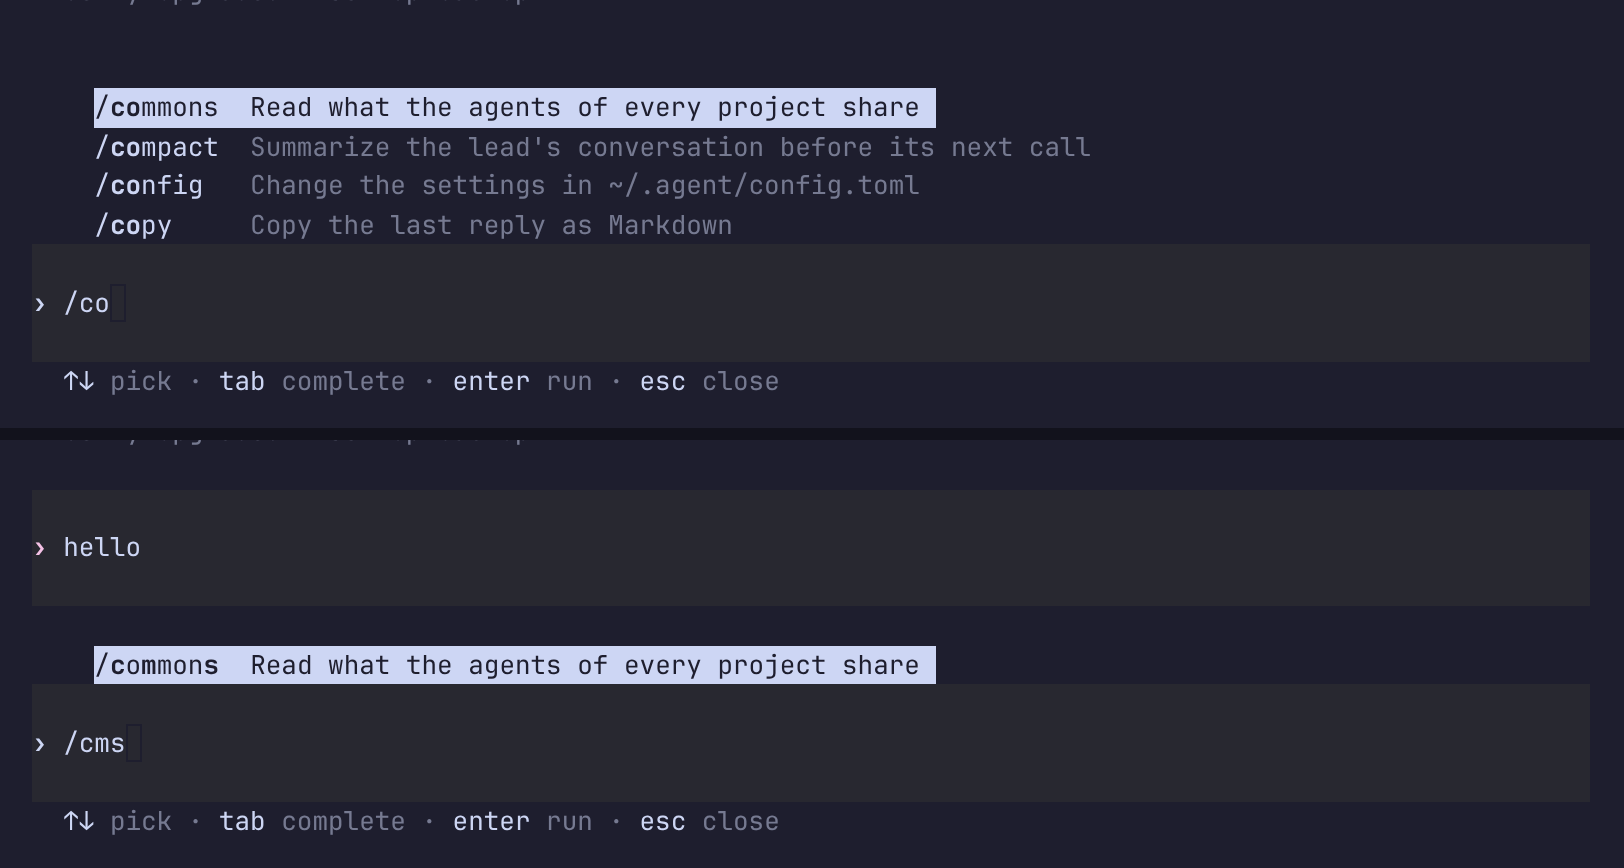
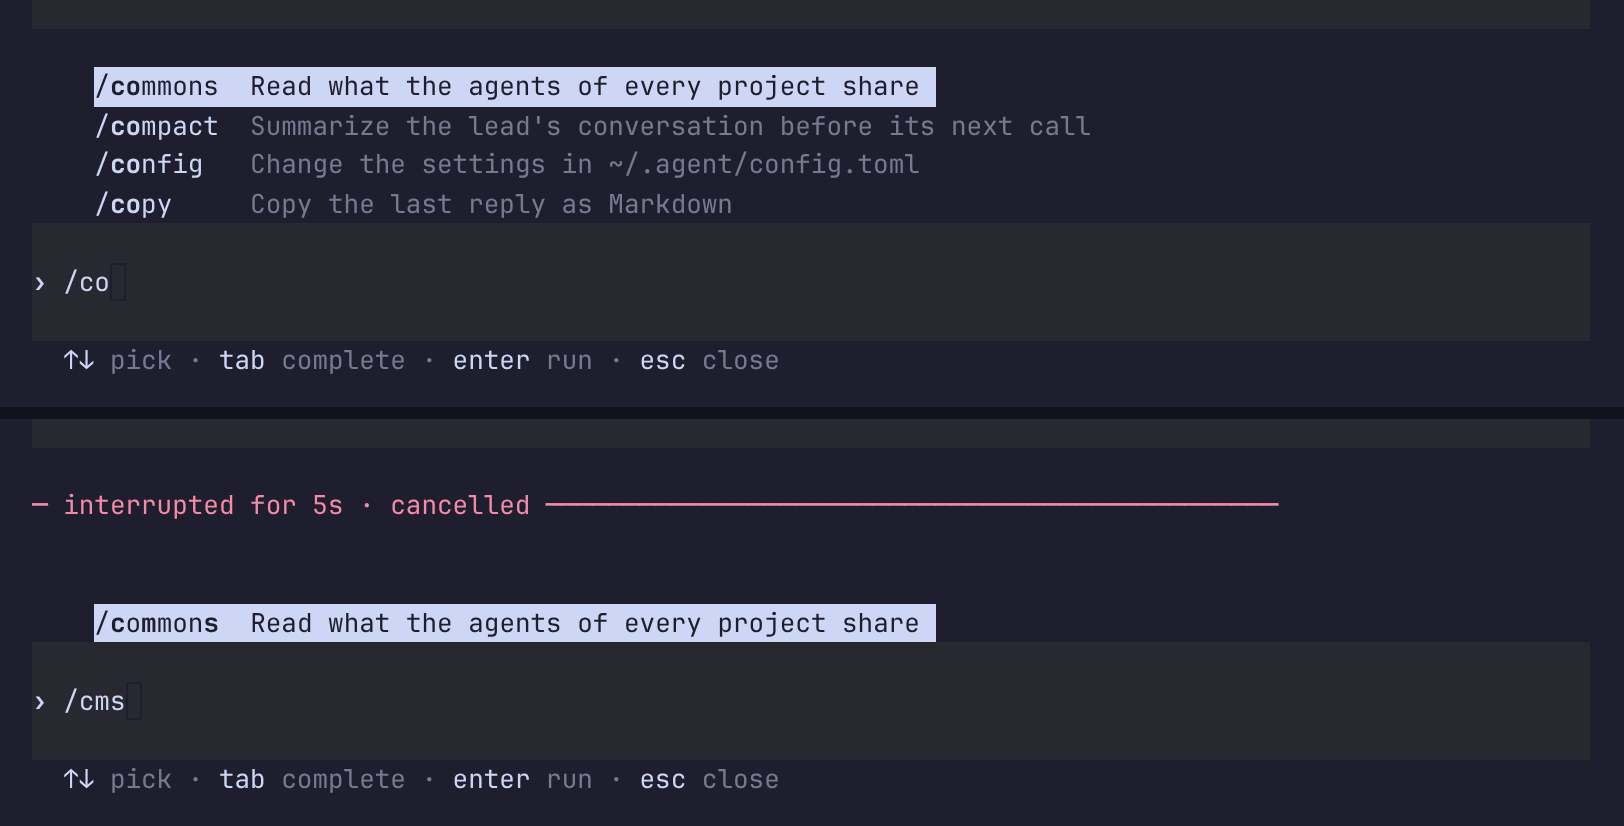
Sonny: /compact asks first instead of needing its whole name
George: a confirm keeps finding commands one way, and adds one step.
Enter on /compact, typed whole or picked from part of its name, asks
'Compact NAME's conversation? It can't be undone.' (question bold, why
muted); Enter compacts, any other key keeps the conversation.

Claude-Session: https://claude.ai/code/session_013jkdGH7yPA3jq7mMu9ABMs

diff --git a/sonny/src/main.rs b/sonny/src/main.rs
@@ -1817,24 +1817,15 @@ const COMMANDS: [(&str, &str); 27] = [
     ("/quit", "Quit; the agents keep working"),
 ];
 
-/// The slash menu's keys, while it is open: Enter runs the pick, or on
-/// part of a [`WHOLE`] command's name fills it in for a second Enter.
+/// The slash menu's keys, while it is open: Tab completes the pick's name
+/// until it is whole.
 fn menu_keys(menu: &[(&str, &str, Vec<usize>)], pick: usize, typed: &str) -> Option<&'static str> {
     let picked = menu.get(pick.min(menu.len().checked_sub(1)?))?.0;
-    Some(match (typed == picked, WHOLE.contains(&picked)) {
-        (true, _) => "  ↑↓ pick · enter run · esc close",
-        (false, true) => "  ↑↓ pick · enter complete, again run · esc close",
-        (false, false) => "  ↑↓ pick · tab complete · enter run · esc close",
+    Some(match typed == picked {
+        true => "  ↑↓ pick · enter run · esc close",
+        false => "  ↑↓ pick · tab complete · enter run · esc close",
     })
 }
-
-/// The commands that act at once and cannot be taken back, as an MCP
-/// tool's `destructiveHint` marks one: `/compact` summarizes the
-/// conversation away. (`/retry` opens a list to approve from, and `/pause`
-/// asks why first.) Enter runs one only once its whole name is typed; on
-/// part of it, Enter fills the name in, as Tab does, and a second Enter
-/// runs it.
-const WHOLE: [&str; 1] = ["/compact"];
 
 /// What an agent's last few items say, for `/status`.
 /// What an idle agent's history says, read once per turn it ended: the
@@ -2009,6 +2000,8 @@ struct App {
     reactions: reactions::Reactions,
     /// The slash commands the person ran, for the menu to rank.
     picks: fuzzy::Picks,
+    /// `/compact` asks before it compacts: Enter says yes.
+    confirming: bool,
     /// The bot's latest replies, by node, with their first lines: what
     /// `/react` offers, newest last.
     replies: Vec<(i64, String)>,
@@ -3000,6 +2993,7 @@ impl App {
             pictures: Vec::new(),
             reactions: reactions::Reactions::default(),
             picks: fuzzy::Picks::default(),
+            confirming: false,
             replies: Vec::new(),
             quoting: false,
             reacting: None,
@@ -7319,6 +7313,21 @@ impl App {
         }
     }
 
+    /// `/compact`, once the person said yes.
+    async fn compact(&mut self) {
+        self.notice = Some(
+            match self
+                .client
+                .request("compact", json!({"bot": self.bot}))
+                .await
+            {
+                Ok(_) if self.running.is_some() => "compacts at its next step".into(),
+                Ok(_) => "compacts before its next reply".into(),
+                Err(error) => format!("compact: {error}"),
+            },
+        );
+    }
+
     /// The slash commands the input could be, while it is one word that
     /// starts with `/`, best first, with where the letters typed are in
     /// each: the person's own picks rank first among equal matches.
@@ -8466,6 +8475,19 @@ impl App {
             }
             return;
         }
+        if self.confirming {
+            if let Event::Key(key) = &event
+                && key.kind != KeyEventKind::Release
+            {
+                // Only Enter says yes; anything else keeps the conversation.
+                self.confirming = false;
+                match key.code {
+                    KeyCode::Enter => self.compact().await,
+                    _ => self.notice = Some("not compacted".into()),
+                }
+            }
+            return;
+        }
         if let Some((choice, mut pick)) = self.choosing {
             if let Event::Key(key) = event
                 && key.kind != KeyEventKind::Release
@@ -8589,12 +8611,9 @@ impl App {
                         .modifiers
                         .intersects(KeyModifiers::SHIFT | KeyModifiers::ALT) =>
                 {
-                    let whole = &*self.input == picked;
                     self.input.set(picked);
                     self.pick = 0;
-                    if whole || !WHOLE.contains(&picked) {
-                        self.submit().await;
-                    }
+                    self.submit().await;
                     return;
                 }
                 KeyCode::Esc => {
@@ -8959,19 +8978,11 @@ impl App {
             });
             return;
         }
+        // It can't be taken back, so it asks first, as an MCP tool's
+        // `destructiveHint` does: Enter compacts, Esc keeps the conversation.
         if prompt == "/compact" {
             self.input.clear();
-            self.notice = Some(
-                match self
-                    .client
-                    .request("compact", json!({"bot": self.bot}))
-                    .await
-                {
-                    Ok(_) if self.running.is_some() => "compacts at its next step".into(),
-                    Ok(_) => "compacts before its next reply".into(),
-                    Err(error) => format!("compact: {error}"),
-                },
-            );
+            self.confirming = true;
             return;
         }
         if prompt == "/react" || prompt == "/reply" {
@@ -9466,6 +9477,7 @@ impl App {
     /// and nothing open over it.
     fn suggested(&self) -> Option<&str> {
         let open = self.picker.is_some()
+            || self.confirming
             || self.choosing.is_some()
             || self.approving.is_some()
             || self.reacting.is_some()
@@ -10146,6 +10158,22 @@ impl App {
                 frame.render_widget(Paragraph::new(keys), footer);
                 return;
             }
+            if self.confirming {
+                let name = match &self.project {
+                    Some(project) => lead_title(project, &self.bot),
+                    None => self.bot.clone(),
+                };
+                // The question first, as a decision card's is; why it asks muted.
+                let line = Line::from(vec![
+                    Span::raw("› ").bold(),
+                    Span::raw(format!("Compact {name}'s conversation?")).bold(),
+                    Span::raw(" It can't be undone.").dim(),
+                ]);
+                frame.render_widget(Paragraph::new(line), composer);
+                let keys = Line::from(hint::spans("  enter compact · esc cancel"));
+                frame.render_widget(Paragraph::new(keys), footer);
+                return;
+            }
             if let Some((_, pick)) = self.choosing {
                 let items: Vec<list::Item> = (self.rows.iter())
                     .map(|mode| {
@@ -10340,7 +10368,8 @@ impl App {
         // A shell command is marked as one while it is typed.
         let shell = self.input.starts_with('!');
         let selected = self.input.selection();
-        let keep = match self.choosing.is_some()
+        let keep = match self.confirming
+            || self.choosing.is_some()
             || self.approving.is_some()
             || self.picker.is_some()
             || self.config.is_some()
@@ -14655,7 +14684,7 @@ mod tests {
     }
 
     #[tokio::test]
-    async fn enter_on_part_of_compact_fills_it_in_and_what_was_run_ranks_first() {
+    async fn compact_asks_first_and_what_was_run_ranks_first() {
         let asked = Arc::new(std::sync::Mutex::new(Vec::<String>::new()));
         let seen = asked.clone();
         let mut app = app(daemon_answering(move |request| {
@@ -14678,20 +14707,30 @@ mod tests {
         let keys = |app: &App| menu_keys(&app.menu(), app.pick, &app.input);
         assert_eq!(
             keys(&app),
-            Some("  ↑↓ pick · enter complete, again run · esc close")
+            Some("  ↑↓ pick · tab complete · enter run · esc close")
         );
-        // Part of /compact's name: Enter fills it in, and runs nothing.
+        // Enter on part of its name picks /compact as any other command,
+        // and it asks first; any key but Enter keeps the conversation.
         app.key(enter()).await;
-        assert_eq!(&*app.input, "/compact");
-        assert!(!compacted());
+        assert!(app.confirming && app.input.is_empty());
+        app.key(Event::Key(event::KeyEvent::new(
+            KeyCode::Char('x'),
+            KeyModifiers::NONE,
+        )))
+        .await;
+        assert!(!app.confirming && !compacted());
+        assert_eq!(app.notice.as_deref(), Some("not compacted"));
+        assert!(app.input.is_empty(), "the key that said no is not typed");
+        // Typed whole, it asks too; Enter compacts.
+        app.input.set("/compact");
         assert_eq!(keys(&app), Some("  ↑↓ pick · enter run · esc close"));
-        // Its whole name: Enter runs it.
         app.key(enter()).await;
-        assert!(app.input.is_empty());
-        assert!(compacted());
+        assert!(app.confirming && !compacted());
+        app.key(enter()).await;
+        assert!(!app.confirming && compacted());
         // Any other command runs on part of its name, and what was run
         // more ranks first among the names that start the same.
-        for _ in 0..2 {
+        for _ in 0..3 {
             app.input.set("/cop");
             app.key(enter()).await;
             assert_eq!(app.notice.as_deref(), Some("no reply yet"));

diff --git a/sonny/FEATURES.md b/sonny/FEATURES.md
@@ -100,7 +100,7 @@ per feature; group small things into the row they belong to.
 | Key hints in one grammar (key, then what it does, muted); `?` with nothing typed shows every key | shipped | added 10-30 #427 | As Codex's `key_hint` and both peers' `?` sheet: keys only the README taught are on screen | ? |
 | One list over the composer (slash menu, `/model`, `/permissions`, `/retry`, `/react`): up to 8 rows, the pick reversed, `•` what is in effect | shipped | added 10-30 #427 | As Codex's one popup: every list reads and moves the same | ? |
 | One way to find rows by typing (slash menu, `/model`, `sonny setup`'s pickers): the letters in order from the start of a word, bold where found; whole name, then start, then a word, then letters; the slash menu ranks the commands you run more and more lately first; its keys show in the footer | experimental | added 10-31 #501 | George typed `/com` for `/commons` and Enter ran `/compact`. Codex ranks mention picks within a match tier by what was picked before, Claude Code weighs commands by use halving each week, and VS Code's palette matches from word starts; three lists each had their own substring or prefix match | ? |
-| `/compact` runs only on its whole name: Enter on part of it fills it in, a second Enter runs it; the key line says so | experimental | added 10-31 #501 | It summarizes the conversation away and can't be taken back, so a half-typed Enter that keeps every other command fast stops short of it, as an MCP tool's `destructiveHint` asks first; `/retry` and `/pause` already ask before acting | ? |
+| `/compact` asks first: Enter compacts, any other key keeps the conversation | experimental | added 10-31 #501 | It summarizes the conversation away and can't be undone, so it asks, as an MCP tool's `destructiveHint` does; the menu itself treats it as any other command (George: a confirm, not a different way of finding it). `/retry` and `/pause` already ask before acting | ? |
 | One vocabulary: slash descriptions as imperatives; automation, follow, reviewer, `no reply`, `Edited`, `/retry`, `sonny --agent` | shipped | added 10-30 #438 | One word per idea, the same word everywhere the person reads, as Codex and Claude Code word their commands; the agents' tool names follow after an eval | ? |
 | `/fast`: pick how fast the agent is served from the list `/permissions` uses: standard, then each faster tier its provider serves (fast, Claude's fast mode or OpenAI's priority tier; ultrafast where served), each with what it costs; the footer names the speed | experimental | added 10-30 #467 | As Codex's and Claude Code's `/fast`: a speed for this agent until changed, listing only what its provider serves, so a Bedrock Claude agent says it has none | ? |
 | Messages to a busy agent: Enter steers, Tab queues for after the turn | shipped | Tab queues 10-30 #400 | As Codex does: the person knows whether it should wait, so no judge guesses | ? |

diff --git a/sonny/README.md b/sonny/README.md
@@ -494,8 +494,8 @@ way `/react` does, and each note in the margin has its own `↩`.
   serves standard alone, as Bedrock does for Claude, says so instead.
 
   ![/fast: standard in effect, fast and ultrafast with what each costs](../docs/sonny/fast-mode-menu.png)
-- `/compact` summarizes the lead's conversation before its next model
-  call: at the running turn's next step, or before an idle lead's next
+- `/compact` asks first, then summarizes the lead's conversation before
+  its next model call: at the running turn's next step, or before an idle lead's next
   reply. The daemon also compacts on its own once a call's input reaches
   the bot's `compact_tokens`, which follows the model's context window
   unless set (900,000 tokens on a 1M window).
@@ -1054,11 +1054,11 @@ more often and more lately come first (each run counts half as much a
 week on, kept in `~/.agent/sonny/picks.json`), so once you use `/commons`
 more than `/compact`, `/co` and Enter opens `/commons`.
 
-Enter runs the command marked, even on part of its name, except
-`/compact`, which can't be taken back: on part of its name Enter fills it
-in, and a second Enter runs it. The key line says which Enter will do.
+Enter runs the command marked, even on part of its name. `/compact`, which
+can't be undone, then asks first: Enter compacts, any other key keeps the
+conversation.
 
-![/co with /compact marked: the keys read enter complete, again run; Enter put /compact in the composer and the keys now read enter run](../docs/sonny/slash-compact-whole.png)
+![/co with /compact marked, then /compact asking: compact the lead's conversation? It can't be undone · enter compact · esc cancel](../docs/sonny/slash-compact-confirm.png)
 
 ![/co after /commons was run: /commons ranks first; /cms finds /commons with c, m and s in bold](../docs/sonny/slash-ranked-fuzzy.png)
 
